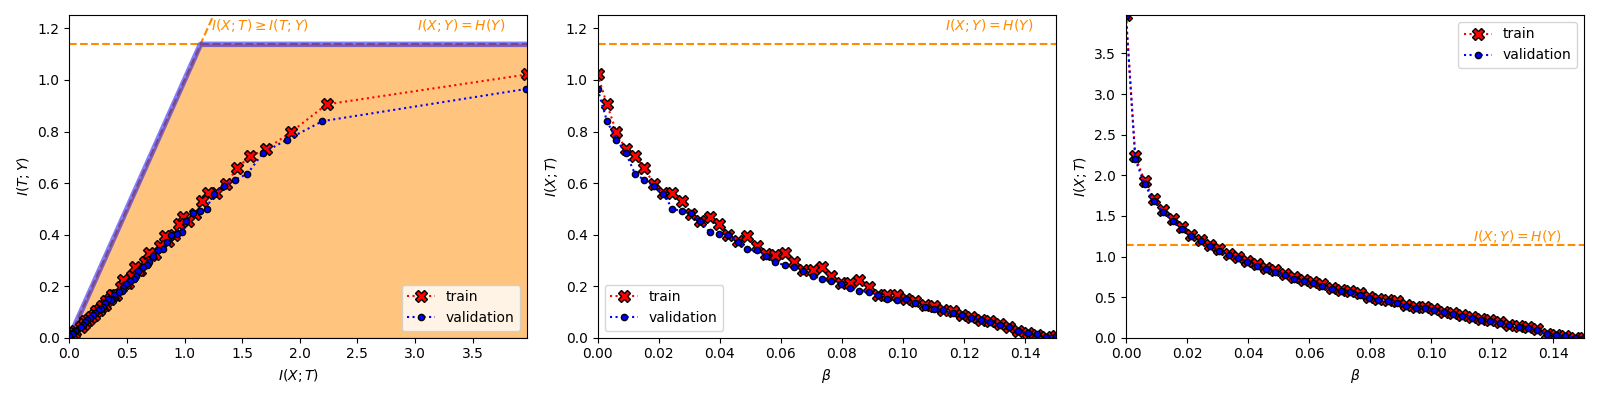
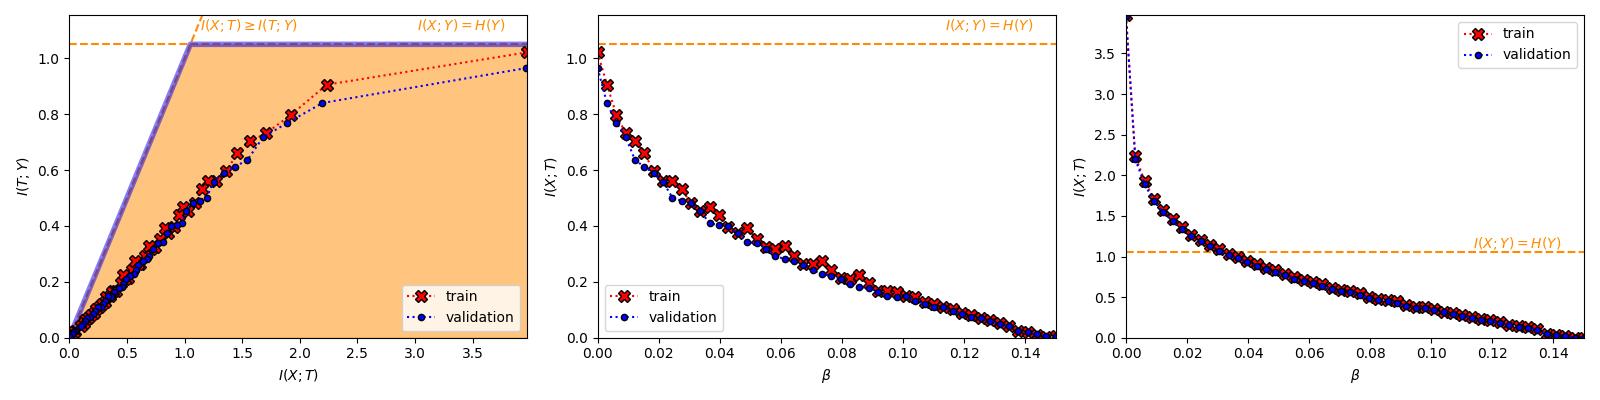
changed for empirical I(X;Y)

diff --git a/src/visualization.py b/src/visualization.py
@@ -10,12 +10,12 @@ def init_results_visualization(K):
     return fig, ax
 
 def plot_results(IXT_train, IXT_validation, ITY_train, ITY_validation,
-    loss_train, loss_validation, t, y, epochs, HY, K, fig, ax, problem_type):
+    loss_train, loss_validation, t, y, epochs, IXY, K, fig, ax, problem_type):
     '''
     Plots the results in figure fig
     '''
 
-    HY = HY / np.log(2) # in bits
+    IXY = IXY / np.log(2) # in bits
 
     # Print the IXT
     ax[0].clear()
@@ -30,23 +30,23 @@ def plot_results(IXT_train, IXT_validation, ITY_train, ITY_validation,
     # Print the ITY
     lim = np.linspace(0,np.max(epochs),1000)
     ax[1].clear()
-    ax[1].plot(lim, np.ones(1000)*HY, color = 'black', linestyle = '--')
+    ax[1].plot(lim, np.ones(1000)*IXY, color = 'black', linestyle = '--')
     ax[1].plot(epochs, ITY_train, '-', color = 'red', label = 'train')
     ax[1].plot(epochs, ITY_validation, '-', color = 'blue', label = 'validation')
     ax[1].set_xlabel('epochs')
     ax[1].set_ylabel(r'$I(T;Y)$')
-    ax[1].set_ylim(bottom=0, top=HY*(1.1))
+    ax[1].set_ylim(bottom=0, top=IXY*(1.1))
     ax[1].set_xlim(left=0)
     ax[1].legend()
 
     # Print the information plane
-    maxval = max(HY*1.1,max(np.max(IXT_train), np.max(IXT_validation)))
+    maxval = max(IXY*1.1,max(np.max(IXT_train), np.max(IXT_validation)))
     diag = np.linspace(0,maxval,1000)
     ax[2].clear()
     ax[2].plot(diag, diag, color = 'darkorange', linestyle = '--')
-    ax[2].plot(diag, np.ones(1000)*HY, color = 'darkorange', linestyle = '--')
-    ax[2].fill_between(diag, 0, np.where(diag>HY, HY, diag), alpha = 0.5, color='darkorange')
-    ax[2].plot(diag, np.where(diag>HY, HY, diag), alpha = 0.5, color='blue', linewidth=4)
+    ax[2].plot(diag, np.ones(1000)*IXY, color = 'darkorange', linestyle = '--')
+    ax[2].fill_between(diag, 0, np.where(diag>IXY, IXY, diag), alpha = 0.5, color='darkorange')
+    ax[2].plot(diag, np.where(diag>IXY, IXY, diag), alpha = 0.5, color='blue', linewidth=4)
     ax[2].plot(IXT_train[:-1], ITY_train[:-1], 'X', color='red', markersize=9, markeredgecolor='black', label = 'train')
     ax[2].plot(IXT_validation[:-1], ITY_validation[:-1], '.', color='blue', markersize=9, markeredgecolor='black', label = 'validation')
     ax[2].plot(IXT_train[-1], ITY_train[-1], '*', color='red', markersize=9, markeredgecolor='black')
@@ -55,10 +55,13 @@ def plot_results(IXT_train, IXT_validation, ITY_train, ITY_validation,
     ax[2].plot(IXT_validation, ITY_validation, linestyle=':', color='blue')
     ax[2].set_xlabel(r'$I(X;T)$')
     ax[2].set_ylabel(r'$I(T;Y)$')
-    ax[2].annotate(r' $I(X;Y) = H(Y)$', xy=(maxval*0.75,HY*(1.05)), color='darkorange')
-    ax[2].annotate(r' $I(X;T) \geq I(T;Y)$', xy=(HY*(0.5),HY*(1.05)), color='darkorange')
+    if problem_type == 'classification':
+        ax[2].annotate(r' $I(X;Y) = H(Y)$', xy=(maxval*0.75,IXY*(1.05)), color='darkorange')
+    else:
+        ax[2].annotate(r' $I(X;Y)$', xy=(maxval*0.75,IXY*(1.05)), color='darkorange')
+    ax[2].annotate(r' $I(X;T) \geq I(T;Y)$', xy=(IXY*(0.5),IXY*(1.05)), color='darkorange')
     ax[2].set_xlim(left=0,right=maxval)
-    ax[2].set_ylim(bottom=0, top=HY*(1.1))
+    ax[2].set_ylim(bottom=0, top=IXY*(1.1))
     ax[2].legend()
 
     # Print the representations
@@ -77,7 +80,7 @@ def plot_results(IXT_train, IXT_validation, ITY_train, ITY_validation,
 
     plt.tight_layout()
 
-def plot_behavior(logs_dir,figs_dir,K,betas,hfunc_name,hfunc_param,HY):
+def plot_behavior(logs_dir,figs_dir,K,betas,hfunc_name,hfunc_param,IXY):
 
     fig, ax = plt.subplots(nrows=1, ncols=3, figsize = (16,4))
 
@@ -99,42 +102,42 @@ def plot_behavior(logs_dir,figs_dir,K,betas,hfunc_name,hfunc_param,HY):
         ITY_validation[i] = np.load(logs_dir + name_base + '--validation_ITY.npy')[-1]
 
     # Print the information plane
-    maxval = max(HY*1.1,max(np.max(IXT_train), np.max(IXT_validation)))
+    maxval = max(IXY*1.1,max(np.max(IXT_train), np.max(IXT_validation)))
     diag = np.linspace(0,maxval,1000)
     ax[0].plot(diag, diag, color = 'darkorange', linestyle = '--')
-    ax[0].plot(diag, np.ones(1000)*HY, color = 'darkorange', linestyle = '--')
-    ax[0].fill_between(diag, 0, np.where(diag>HY, HY, diag), alpha = 0.5, color='darkorange')
-    ax[0].plot(diag, np.where(diag>HY, HY, diag), alpha = 0.5, color='blue', linewidth=4)
+    ax[0].plot(diag, np.ones(1000)*IXY, color = 'darkorange', linestyle = '--')
+    ax[0].fill_between(diag, 0, np.where(diag>IXY, IXY, diag), alpha = 0.5, color='darkorange')
+    ax[0].plot(diag, np.where(diag>IXY, IXY, diag), alpha = 0.5, color='blue', linewidth=4)
     ax[0].plot(IXT_train, ITY_train, 'X:', color='red', markersize=9, markeredgecolor='black', label = 'train')
     ax[0].plot(IXT_validation, ITY_validation, '.:', color='blue', markersize=9, markeredgecolor='black', label = 'validation')
     ax[0].set_xlabel(r'$I(X;T)$')
     ax[0].set_ylabel(r'$I(T;Y)$')
-    ax[0].annotate(r' $I(X;Y) = H(Y)$', xy=(maxval*0.75,HY*(1.05)), color='darkorange')
-    ax[0].annotate(r' $I(X;T) \geq I(T;Y)$', xy=(HY*(1.05),HY*(1.05)), color='darkorange')
+    ax[0].annotate(r' $I(X;Y) = H(Y)$', xy=(maxval*0.75,IXY*(1.05)), color='darkorange')
+    ax[0].annotate(r' $I(X;T) \geq I(T;Y)$', xy=(IXY*(1.05),IXY*(1.05)), color='darkorange')
     ax[0].set_xlim(left=0,right=maxval)
-    ax[0].set_ylim(bottom=0, top=HY*(1.1))
+    ax[0].set_ylim(bottom=0, top=IXY*(1.1))
     ax[0].legend()
 
     # Print the evolution of I(T;Y)
     diag = np.linspace(np.min(betas),np.max(betas),1000)
-    ax[1].plot(diag, np.ones(1000)*HY, color = 'darkorange', linestyle = '--')
+    ax[1].plot(diag, np.ones(1000)*IXY, color = 'darkorange', linestyle = '--')
     ax[1].plot(betas, ITY_train, 'X:', color='red', markersize=9, markeredgecolor='black', label = 'train')
     ax[1].plot(betas, ITY_validation, '.:', color = 'blue', markersize=9, markeredgecolor='black', label='validation')
     ax[1].set_xlabel(r'$\beta$')
     ax[1].set_ylabel(r'$I(X;T)$')
-    ax[1].annotate(r' $I(X;Y) = H(Y)$', xy=(betas[-1]*0.75,HY*(1.05)), color='darkorange')
+    ax[1].annotate(r' $I(X;Y) = H(Y)$', xy=(betas[-1]*0.75,IXY*(1.05)), color='darkorange')
     ax[1].set_xlim(left=0,right=np.max(betas))
-    ax[1].set_ylim(bottom=0,top=HY*(1.1))
+    ax[1].set_ylim(bottom=0,top=IXY*(1.1))
     ax[1].legend()
 
     # Print the evolution of I(X;T)
     diag = np.linspace(np.min(betas),np.max(betas),1000)
-    ax[2].plot(diag, np.ones(1000)*HY, color = 'darkorange', linestyle = '--')
+    ax[2].plot(diag, np.ones(1000)*IXY, color = 'darkorange', linestyle = '--')
     ax[2].plot(betas, IXT_train, 'X:', color='red', markersize=9, markeredgecolor='black', label = 'train')
     ax[2].plot(betas, IXT_validation, '.:', color = 'blue', markersize=9, markeredgecolor='black', label='validation')
     ax[2].set_xlabel(r'$\beta$')
     ax[2].set_ylabel(r'$I(X;T)$')
-    ax[2].annotate(r' $I(X;Y) = H(Y)$', xy=(betas[-1]*0.75,HY*(1.05)), color='darkorange')
+    ax[2].annotate(r' $I(X;Y) = H(Y)$', xy=(betas[-1]*0.75,IXY*(1.05)), color='darkorange')
     ax[2].set_xlim(left=0,right=np.max(betas))
     ax[2].set_ylim(bottom=0,top=maxval)
     ax[2].legend()

diff --git a/src/nonlinearIB.py b/src/nonlinearIB.py
@@ -18,6 +18,7 @@ class NonlinearIB(torch.nn.Module):
         super(NonlinearIB,self).__init__()
 
         self.HY = np.log(n_y) # in natts
+        self.maxIXY = self.HY # in natts
         self.varY = 0 # to be updated with the training dataset
 
         self.K = K
@@ -178,6 +179,9 @@ class NonlinearIB(torch.nn.Module):
         if self.problem_type == 'regression':
             self.varY = torch.var(trainset.targets)
             self.HY = 0.5 * math.log(self.varY.item()*2.0*math.pi*math.e) # in natts
+            self.maxIXY = 0.72785 # approximation for California Housing (just train with beta = 0 and get the value of I(T;Y) after training)
+                                  # only for visualization purposes
+
 
         # Data Loader
         n_sgd_batches = math.floor(len(trainset) / sgd_batch_size)
@@ -283,7 +287,7 @@ class NonlinearIB(torch.nn.Module):
                             plot_results(train_IXT_vec[:report], test_IXT_vec[:report],
                                 train_ITY_vec[:report], test_ITY_vec[:report],
                                 train_loss_vec[:report], test_loss_vec[:report],
-                                pca.fit_transform(visualize_t), visualize_y[:n_points], epochs_vec[:report], self.HY, self.K,
+                                pca.fit_transform(visualize_t), visualize_y[:n_points], epochs_vec[:report], self.maxIXY, self.K,
                                 fig, ax, self.problem_type)
                             
                             plt.savefig(figs_dir + name_base + '--image.pdf', format = 'pdf')

diff --git a/src/study_behavior.py b/src/study_behavior.py
@@ -21,12 +21,14 @@ if dataset_name == 'mnist' or dataset_name == 'fashion_mnist':
     n_x = 784
     n_y = 10
     HY = np.log2(n_y)
+    maxIXY = HY
     problem_type = 'classification'
 elif dataset_name == 'california_housing':
     n_x = 8
     n_y = 1
     varY = torch.var(trainset.targets)
     HY = 0.5 * math.log(varY.item()*2.0*math.pi*math.e) / np.log(2)
+    maxIXY = 0.72785 / np.log(2) # Estimation by training with only the cross entropy and getting the result after training
     problem_type = 'regression'
 
 # Create the folders
@@ -63,4 +65,4 @@ with multiprocessing.Pool(4) as p:
     p.map(train_and_save, betas)
 
 # Visualize the comparison
-plot_behavior(logs_dir,figs_dir,args.K,betas,args.hfunc,args.hfunc_param,HY)
+plot_behavior(logs_dir,figs_dir,args.K,betas,args.hfunc,args.hfunc_param,maxIXY)

diff --git a/README.md b/README.md
@@ -32,9 +32,9 @@ This repository contains the updated implementation from 2019. To see the origin
 
 ### On California Housing 
 
-#### Exponential IB Lagrangian with parameter 0.3. Beta = 0.005
+#### Exponential IB Lagrangian with parameter 3. Beta = 0.005
 
-![](./examples/housing_exp_0,3_beta_0,05_image.png)
+![](./examples/housing_exp_3_beta_0,05_image.png)
 
 #### Behavior of the Exponential IB Lagrangian with parameter 1.
 
